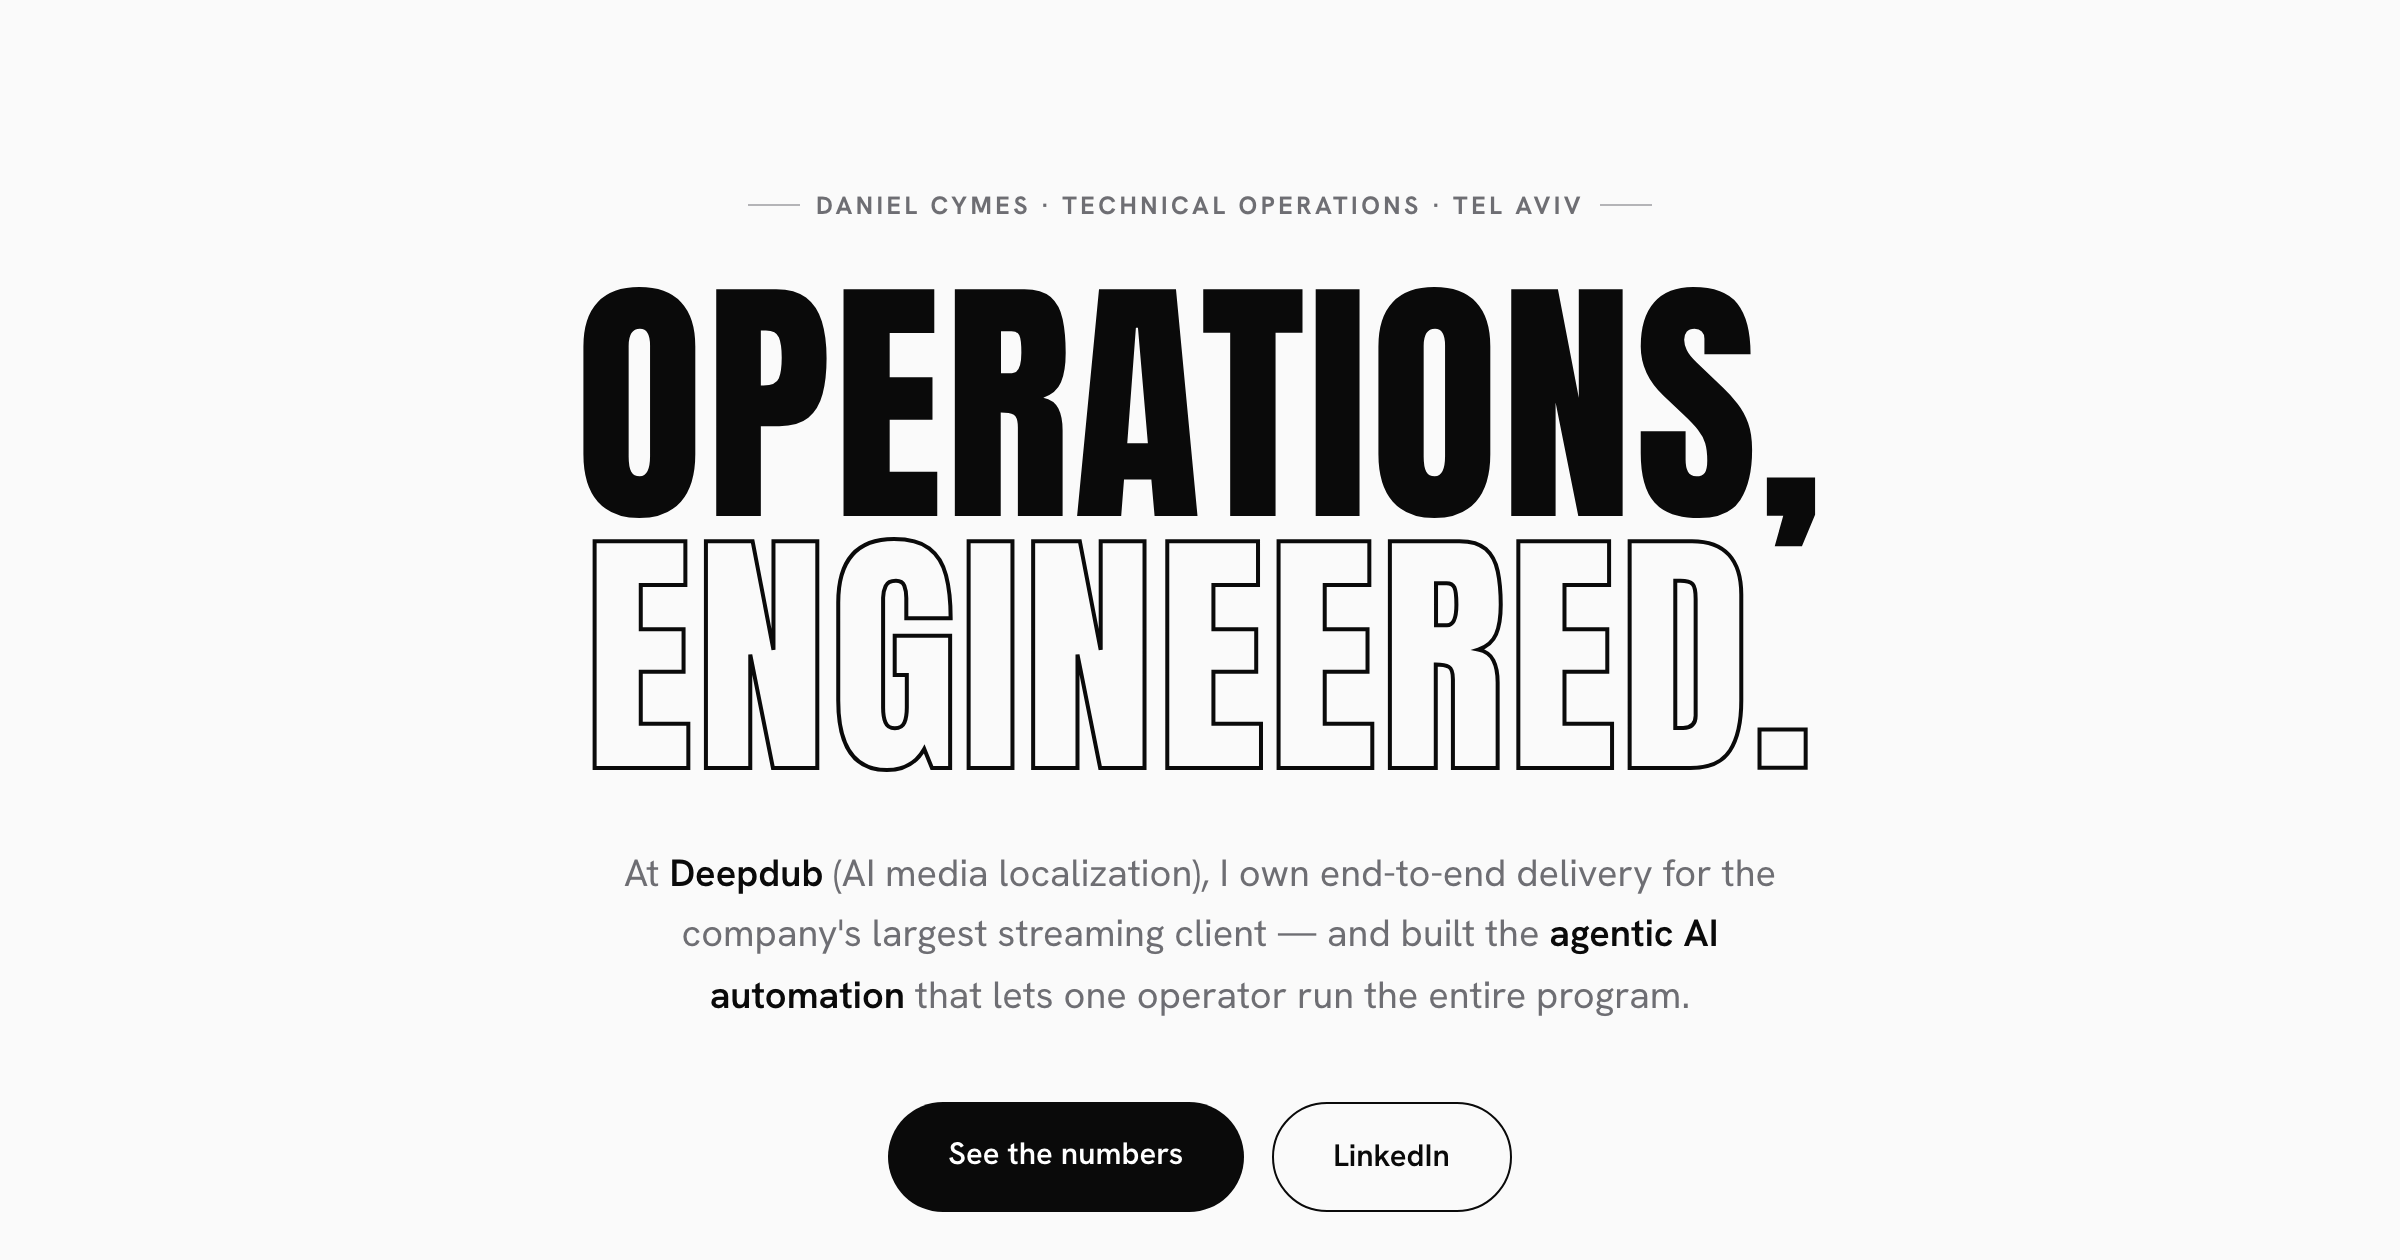
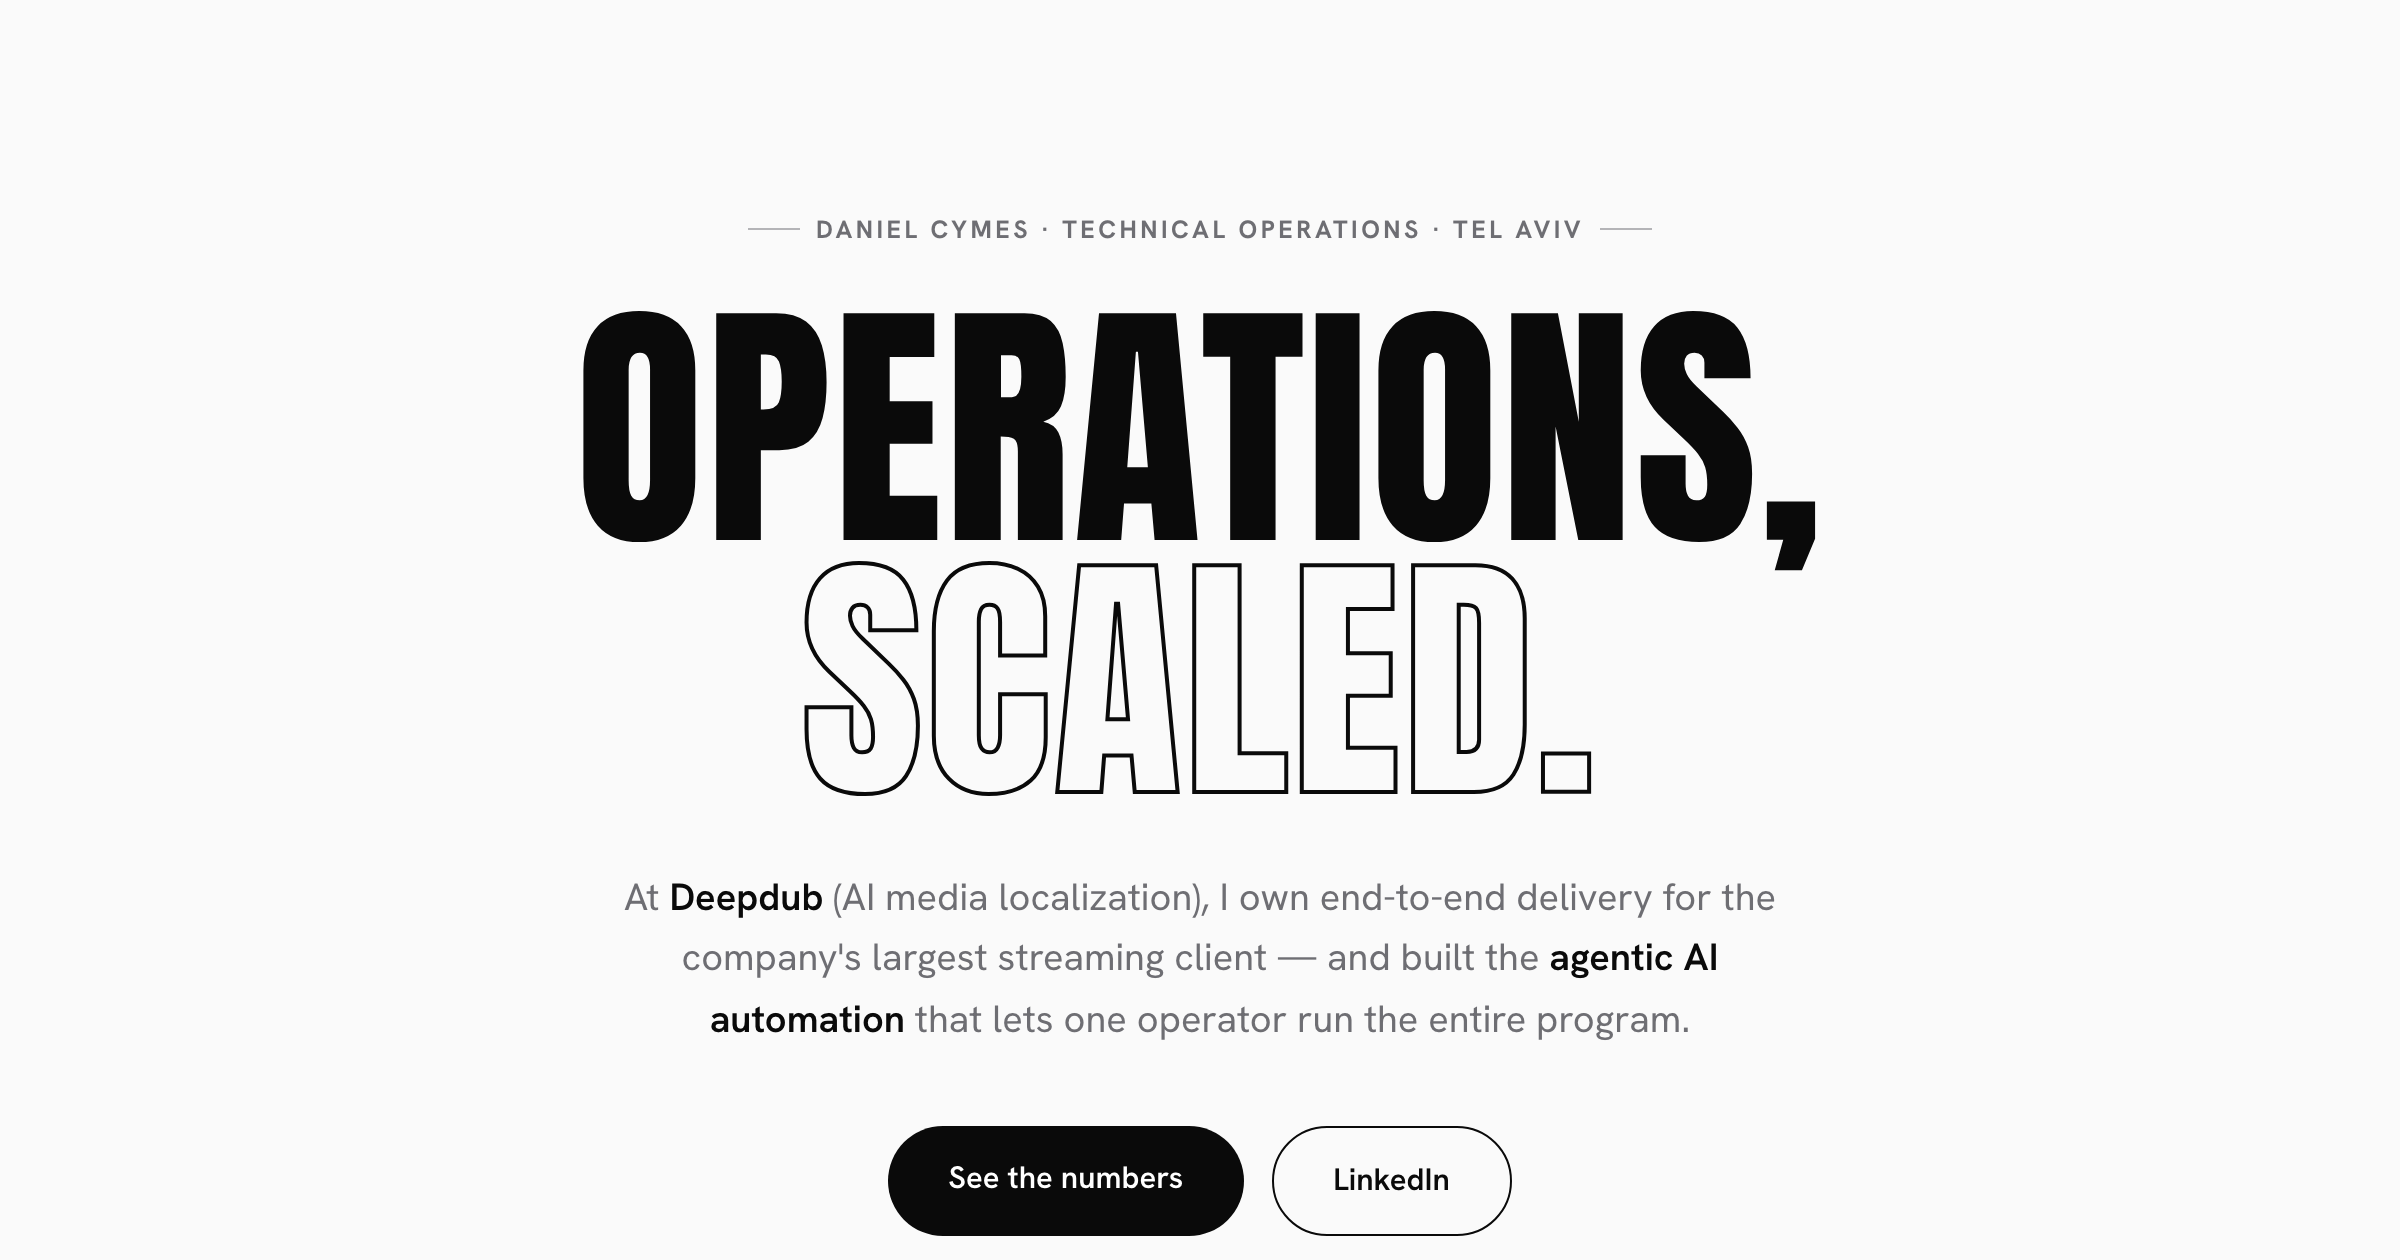
Headline: Operations, scaled.

diff --git a/index.html b/index.html
@@ -3,9 +3,9 @@
 <head>
 <meta charset="UTF-8">
 <meta name="viewport" content="width=device-width, initial-scale=1.0">
-<title>Daniel Cymes — Operations, engineered.</title>
+<title>Daniel Cymes — Operations, scaled.</title>
 <meta name="description" content="AI-automated media localization delivery: 1,854 jobs at 98.6% client acceptance, volume scaled 6× with zero added headcount, ~$1/job AI cost — every number pulled from the pipeline's own ledgers.">
-<meta property="og:title" content="Daniel Cymes — Operations, engineered.">
+<meta property="og:title" content="Daniel Cymes — Operations, scaled.">
 <meta property="og:description" content="AI-automated media localization delivery: 1,854 jobs at 98.6% client acceptance, volume scaled 6× with zero added headcount, ~$1/job AI cost — every number pulled from the pipeline's own ledgers.">
 <meta property="og:image" content="https://3aruch-dev.github.io/og.png">
 <meta property="og:url" content="https://3aruch-dev.github.io/">
@@ -179,7 +179,7 @@ footer p{color:rgba(255,255,255,.6);margin-top:20px;font-size:17px}
 <div class="hero" id="top">
   <div class="wrap">
     <div class="eyebrow rv">Daniel Cymes · Technical Operations · Tel Aviv</div>
-    <h1 class="disp rv">Operations, <span class="accent">engineered.</span></h1>
+    <h1 class="disp rv">Operations, <span class="accent">scaled.</span></h1>
     <p class="rv">At <b>Deepdub</b> (AI media localization), I own end-to-end delivery for the company's largest streaming client — and built the <b>agentic AI automation</b> that lets one operator run the entire program.</p>
     <div class="btns rv">
       <a class="btn btn-dark" href="#numbers">See the numbers</a>
